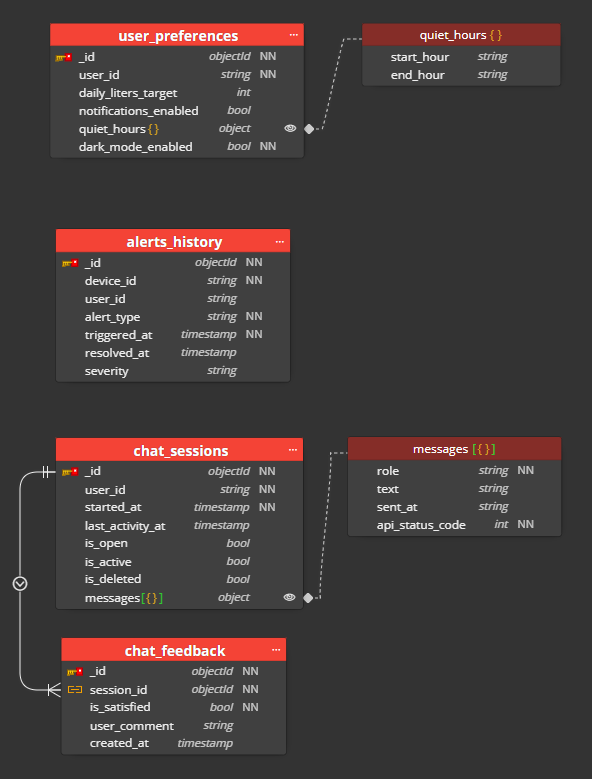
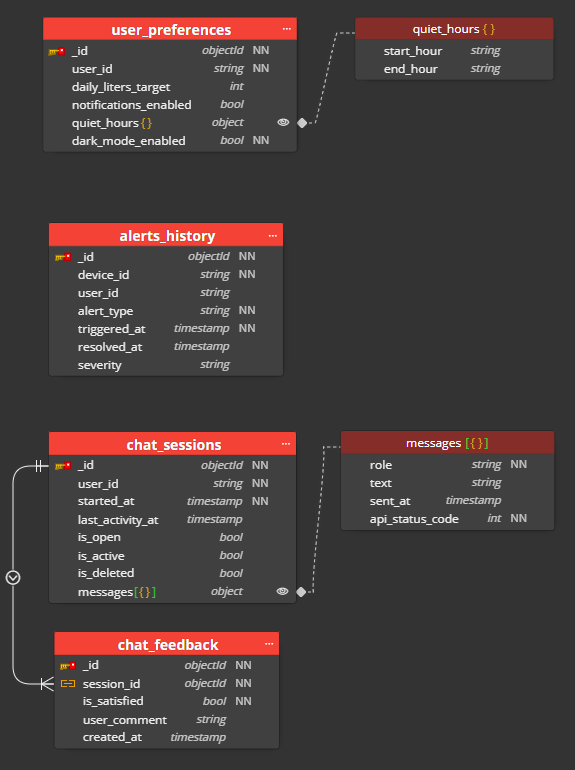
docs: adiciona regras de negócio do banco mongo

diff --git a/DADOS/NoSQL/regras-negocio.md b/DADOS/NoSQL/regras-negocio.md
@@ -1,0 +1,119 @@
+# 📘 Regras de Negócio — Projeto Delta (MongoDB)
+
+Este documento descreve todas as regras de negócio do banco de dados não relacional MongoDB do Projeto Delta.
+
+---
+
+## 1. 🔤 Padrão de letras nos registros
+
+Todos os **dados inseridos no banco devem ser armazenados em MAIÚSCULAS**, quando aplicável.
+
+✔ Exemplos:
+- status → "ONLINE"
+- severidade → "ALTA"
+
+---
+
+## 2. 🌐 Padrão de idioma
+
+- Todos os **objetos do banco de dados devem estar em INGLÊS**
+- Isso inclui:
+  - collections
+  - campos
+  - indexes
+
+---
+
+## 3. 🔡 Padrão de acentuação
+
+- Os **registros podem conter acentuação normalmente**
+- Já os **objetos do banco NÃO devem conter acentos**
+
+---
+
+## 4. 🏷️ Padrões de Nomenclatura NoSQL
+
+---
+
+### 4.1 📂 Databases
+Padrão: **lower_snake_case** com o prefixo `db_delta_` para identificar claramente o ambiente dentro do cluster.
+
+✔ Exemplos:
+db_delta_telemetry
+db_delta_app
+
+---
+
+### 4.2 📦 Coleções (Collections)
+No MongoDB, o padrão mais adotado pelo mercado e pela própria equipe do Mongo é o **lower_snake_case** no plural (ou indicando o tipo de histórico), 
+dispensando o uso de prefixos como tb_, já que o contexto de documento é implícito.
+
+✔ Exemplos:
+
+pulses_raw
+consumption_summary
+client_preferences
+chat_sessions
+
+---
+
+### 4.3 🆔 Nomenclatura de PKs
+- Todas as **Primary Keys (PKs)** das collections seguem o padrão de ObjectId do MongoDB
+- As PKs em todas as collections são o _id para padronização
+
+---
+
+### 4.4 🔑 Campos (Fields/Properties) dentro do JSON
+Padrão: **lower_snake_case** para todas as chaves do documento JSON.
+
+✔ Exemplos:
+device_id
+window_started_at
+anomaly_detected
+
+---
+
+## 5. 🏷️ Prefixos utilizados no projeto
+
+---
+
+### 5.1 🔑 Prefixo de Indexes Simples e Compostos
+
+- Prefixo: `idx_`
+- Formato:
+    idx_<collection>_<campo1>_<campo2>_..._<campoN>
+
+✔ Exemplos:
+idx_client_preferences_user_id
+
+---
+
+### 5.2 🔒 Sufixo de Indexes Únicos
+- Prefixo: `idx_`
+- Sufixo: `_uq`
+- Formato:
+    idx_<collection>_<campo>_uq
+
+✔ Exemplos:
+idx_client_preferences_user_id_uq
+
+---
+
+### 5.3 ⏳ Prefixo de Indexes de Expiração Automática
+- Sufixo: `ttl_`
+- Formato:
+    ttl_<collection>_<campo_data>
+
+✔ Exemplos:
+ttl_pulses_raw_sent_at
+
+---
+
+### 🔒 5.4 Prefixo de Roles
+
+Todas as roles seguem o prefixo: role_
+✔ Exemplos:
+role_devops  
+role_analyst  
+
+---

diff --git a/DADOS/NoSQL/modelagem-mongodb.md b/DADOS/NoSQL/modelagem-mongodb.md
@@ -141,10 +141,6 @@ de saúde do hardware.
 }
 ```
 
-> 💡 **Nota de divergência do rascunho inicial:** nas discussões de ideação, `device_id` havia sido cogitado
-> como o próprio `_id` do documento. A modelagem oficial optou por manter `_id` como `ObjectId` padrão em
-> todas as coleções (consistência de driver/ORM) e tratar `device_id` como campo único indexado. Ver seção 5.
-
 ### 3.4. Estruturas planejadas (ainda não implementadas)
 
 - **`maintenance_logs`** — histórico de manutenção física do hardware (`device_id`, `technician_id`,